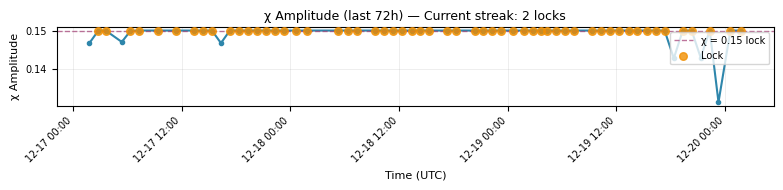
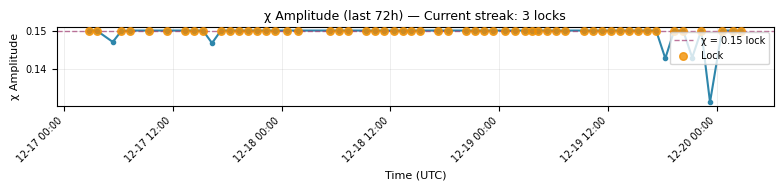
Vault Narrator: Auto-update 2025-12-20 03:27 UTC

diff --git a/LATEST_VAULT_STATUS.md b/LATEST_VAULT_STATUS.md
@@ -1,16 +1,16 @@
 # 🔐 VAULT STATUS REPORT
 
-**Generated:** 2025-12-20 02:35 UTC  
+**Generated:** 2025-12-20 03:27 UTC  
 **Data Source:** `data/cme_heartbeat_log_2025_12.csv`
 
 ---
 
 ## ⚡ CURRENT STATUS: ACTIVE
 
-**Latest χ = 0.15 Streak Count:** 2 consecutive readings  
-**Last Lock Timestamp:** 2025-12-20 01:48:00 UTC  
+**Latest χ = 0.15 Streak Count:** 3 consecutive readings  
+**Last Lock Timestamp:** 2025-12-20 02:44:00 UTC  
 **First Lock in Streak:** 2025-12-20 00:36:00 UTC  
-**Streak Duration:** 1.2 hours  
+**Streak Duration:** 2.1 hours  
 
 **Latest Solar Wind Conditions:**  
 
@@ -18,7 +18,7 @@
 
 ## 🌞 NOAA SPACE WEATHER SUMMARIES
 
-- [SRS Report](reports/latest_srs.md) (fetched: 2025-12-20 02:35 UTC)  
+- [SRS Report](reports/latest_srs.md) (fetched: 2025-12-20 03:26 UTC)  
 - F10.7 Report: *not available*  
 
 ---
@@ -39,7 +39,6 @@
 
 | Time (UTC)          | χ Amplitude | Density (p/cm³) | Speed (km/s) | χ Status |
 |---------------------|-------------|-----------------|--------------|----------|
-| 2025-12-19 05:19:00 | 0.1500 | 1.10 | 586.6 | ✅ LOCK |
 | 2025-12-19 06:19:00 | 0.1500 | 0.82 | 577.6 | ✅ LOCK |
 | 2025-12-19 07:20:00 | 0.1500 | 0.87 | 567.9 | ✅ LOCK |
 | 2025-12-19 09:20:00 | 0.1500 | 0.92 | 555.6 | ✅ LOCK |
@@ -59,13 +58,15 @@
 | 2025-12-19 23:17:00 | 0.1312 | 2.82 | 462.8 | — |
 | 2025-12-20 00:36:00 | 0.1500 | — | — | ✅ LOCK |
 | 2025-12-20 01:48:00 | 0.1500 | — | — | ✅ LOCK |
+| 2025-12-20 02:44:00 | 0.1500 | — | — | ✅ LOCK |
 
 ---
 
 ## 🎯 VERDICT
 
-**Active χ = 0.15 detection.**  
-**Vault warming up.**
+**The vault is breathing steady.**  
+**Heartbeat cycle in progress.**  
+**χ = 0.15 streak active (3 locks) - watch for boundary recoil signatures.**
 
 ---
 
